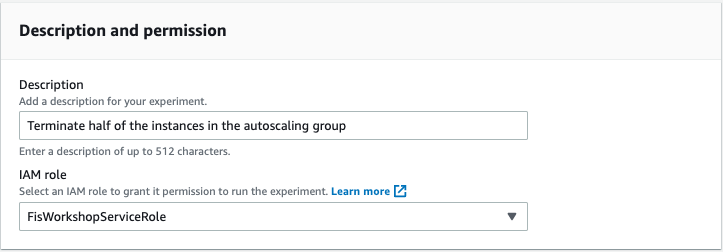
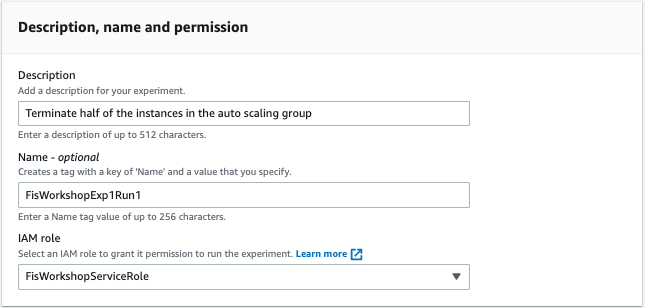
Add logging to basic examples and update UI images

Changed region(s): [[0.0, 0.2222, 0.7442, 0.9444], [0.0, 0.0, 1.0, 1.0], [0.0, 0.0556, 0.4031, 0.1667]]

diff --git a/resources/templates/asg-cdk/lib/asg-cdk-test-stack.ts b/resources/templates/asg-cdk/lib/asg-cdk-test-stack.ts
@@ -21,6 +21,7 @@ export class AsgCdkTestStack extends cdk.Stack {
 
     // Set some constants for convenience
 
+    const fisLogGroup = '/fis-workshop/fis-logs';
     const nginxAccessLogGroup = '/fis-workshop/asg-access-log';
     const nginxErrorLogGroup = '/fis-workshop/asg-error-log';
     
@@ -272,6 +273,13 @@ export class AsgCdkTestStack extends cdk.Stack {
     const lbUrl = new cdk.CfnOutput(this, 'FisAsgUrl', {value: 'http://' + lb.loadBalancerDnsName});
 
     // Set up logs, metrics, and dashboards
+
+    const logGroupFisLogs = new log.LogGroup(this, 'FisLogGroupFisLogs', {
+      logGroupName: fisLogGroup,
+      retention: log.RetentionDays.ONE_WEEK,
+    });
+
+    const outputFisLog = new cdk.CfnOutput(this, 'FisLogsArn', {value: logGroupFisLogs.logGroupArn});
 
     const logGroupNginxAccess = new log.LogGroup(this, 'FisLogGroupNginxAccess', {
       logGroupName: nginxAccessLogGroup,

diff --git a/workshop/content/030_basic_content/030_basic_experiment/20-experiment-console/_index.en.md b/workshop/content/030_basic_content/030_basic_experiment/20-experiment-console/_index.en.md
@@ -28,9 +28,9 @@ Navigate to the [**FIS console**](https://console.aws.amazon.com/fis/home?#Home)
 **_Note:_** if you've used AWS FIS before you may not see the splash screen. In that case select "Experiment templates" in the burger menu on the left and access **"Create experiment template"** from there.
 {{% /notice %}}
 
-#### Template description and permissions
+#### Template description, name, and permissions
 
-Let's write a description for our experiment template and select an IAM role to use when performing the experiment. Go to the "Description and permission" section. For "Description" enter `Terminate half of the instances in the auto scaling group` and for "IAM Role" select the `FisWorkshopServiceRole` role you created previously.
+Let's write a description for our experiment template and select an IAM role to use when performing the experiment. Go to the "Description, name and permission" section. For "Description" enter `Terminate half of the instances in the auto scaling group`, for "Name" enter `FisWorkshopExp1Run1` and for "IAM Role" select the `FisWorkshopServiceRole` role you created previously.
 
 {{< img "create-template-2-description.en.png" "Set FIS description and role" >}}
 
@@ -72,11 +72,22 @@ AWS FIS provides stop conditions tied to [**Amazon CloudWatch alarms**](https://
 {{< img "create-template-4-stop-conditions-empty.en.png" "Skip Stop Condition section" >}} 
 
 
-#### Template name and tags
+#### Logs
 
-Finally we can attach tags to our template. Tags can be used in IAM policy [**condition keys**](https://docs.aws.amazon.com/service-authorization/latest/reference/list_awsfaultinjectionsimulator.html#awsfaultinjectionsimulator-fis_Service) to control access to the experiment template. AWS FIS also recognizes the special tag `Name` which is displayed in the "Name" field of the experiment template list view. 
+To write logs of FIS events to CloudWatch, expand the "Logs" card, check the "Send to CloudWatchLogs" checkbox, and select "Browse" to select the pre-created log group:
 
-For this experiment we will give our template a short name to be used on the list page. To do this scroll to the "Tags" section at the bottom, select **"Add new tag"**, then enter `Name` in the "Key" field and `FisWorkshopExp1` for "Value"
+{{< img "create-template-5-logs-1.en.png" "Enable CloudWatch logging for FIS" >}} 
+
+For "Log groups" enter `/fis-workshop/fis-logs` and select the relevant entry: 
+
+{{< img "create-template-5-logs-2.en.png" "Browse for log group" >}} 
+
+
+#### Template tags
+
+AWS FIS tracks the temmplate name as the special tag `Name` which is displayed in the "Name" field of the experiment template list view. In addition to the Name tag that propagated from setting it in the "Description, name and permission" card, we can optionally attach tags to our template. Tags can be used in IAM policy [**condition keys**](https://docs.aws.amazon.com/service-authorization/latest/reference/list_awsfaultinjectionsimulator.html#awsfaultinjectionsimulator-fis_Service) to control access to the experiment template. 
+
+For this experiment we will make no changes here.
 
 {{< img "create-template-2-name.en.png" "Set FIS template name" >}}
 
@@ -149,13 +160,29 @@ Look at the "State" entry. If this still shows pending, feel free to select the 
 
 {{< img "run-experiment-1-fail.en.png" "Start experiment confirmation" >}}
 
-Click on the failed result to get more information about why it failed. The message should say `Target resolution returned empty set`. To see why this would happen, have a look at the auto scaling group from which we tried to select instances. Navigate to the [**EC2 console**](https://console.aws.amazon.com/ec2autoscaling/home?#/details), select **"Auto Scaling Groups"** on the bottom of the burger menu, and search for `FisStackAsg-`:
+Click on the failed result to get more information about why it failed. The message should say `Target resolution returned empty set`. Scroll down further and select "Timeline":
+
+{{< img "run-experiment-1-fail-2.en.png" "Start experiment confirmation" >}}
+
+In this case this doesn't show anything because the experiment failed to run entirely, but for larger experiments you would see when each action was active in the timeline.
+
+Next navigate to the [**CloudWatch Logs console**](https://console.aws.amazon.com/cloudwatch/home?#logsV2:log-groups/log-group/$252Ffis-workshop$252Ffis-logs) and select the `/fis-workshop/fis-logs` log group
+
+{{< img "run-experiment-1-fail-3.en.png" "Start experiment confirmation" >}}
+
+then expand the topmost stream under "Log streams"
+
+{{< img "run-experiment-1-fail-4.en.png" "Start experiment confirmation" >}}
+
+All this shows that FIS failed to identify virtual machines that satisfied the condition of being "50% of instances with "Name" tag of `FisStackAsg/ASG`.
+
+To see why this would happen, have a look at the auto scaling group from which we tried to select instances. Navigate to the [**EC2 console**](https://console.aws.amazon.com/ec2autoscaling/home?#/details), select **"Auto Scaling Groups"** on the bottom of the burger menu, and search for `FisStackAsg-`:
 
 {{< img "review-1-asg-1.en.png" "Review ASG" >}}
 
 ## Learning and improving
 
-It looks like our ASG was configured to scale down to just one instance while idle. Since we can't shut down half of one instance our 50% selector came up empty and the experiment failed.
+It looks like our ASG was configured to scale down to just one instance while idle. Since we can't shut down half of one instance, our 50% selector came up empty and the experiment failed.
 
 **Great! While this wasn't really what we expected, we just found a flaw in our configuration that would severely affect our system's resilience! Let's fix it and try again!**
 

diff --git a/workshop/content/030_basic_content/030_basic_experiment/30-experiment-cli/_index.en.md b/workshop/content/030_basic_content/030_basic_experiment/30-experiment-cli/_index.en.md
@@ -18,6 +18,7 @@ In this section we will show you how to create an experiment using AWS FIS templ
         "targets": {},
         "roleArn": "arn:aws:iam:...",
         "stopConditions": [],
+        "logConfiguration": {},
         "tags": {}
     }
 }
@@ -137,12 +138,25 @@ E.g.: to select an instance that is `running` in `us-east-2a` we would add the f
 ]
 ```
 
+### Logging configuration
+
+[**Experiment logging**](https://docs.aws.amazon.com/fis/latest/userguide/monitoring-logging.html) can be enabled in the `logConfiguration` section of the template. For logging to CloudWatch similar to the previous section would look like this (with the region and account number filled in appropriately):
+
+```json
+"logConfiguration": {
+    "cloudWatchLogsConfiguration": {
+        "logGroupArn": "arn:aws:logs:YOUR_REGION_HERE:YOUR_ACCOUNT_NUMBER_HERE:log-group:/fis-workshop/fis-logs:*"
+    },
+    "logSchemaVersion": 1
+},
+```
+
 ### Finished template
 
 Using the above, this would be the finished template. 
 
 {{% notice note %}}
-Before using this template, please ensure that you replace the ARN for the FIS execution role on the last line with the ARN of the role you you created in the [**Configuring permissions**]({{< ref "030_basic_content/030_basic_experiment/10-permissions">}}) section.
+Before using this template, please ensure that you replace the ARN for the FIS execution role on the last line with the ARN of the role you  created in the [**Configuring permissions**]({{< ref "030_basic_content/030_basic_experiment/10-permissions">}}) section and appropriately set the region and account number for the log group ARN.
 {{% /notice %}}
 
 ```json
@@ -181,7 +195,13 @@ Before using this template, please ensure that you replace the ARN for the FIS e
             "source": "none"
         }
     ],
-    "roleArn": "arn:aws:iam::YOUR_ACCOUNT_NUMBER_HERE:role/FisWorkshopServiceRole"
+    "roleArn": "arn:aws:iam::YOUR_ACCOUNT_NUMBER_HERE:role/FisWorkshopServiceRole",
+    "logConfiguration": {
+        "cloudWatchLogsConfiguration": {
+            "logGroupArn": "arn:aws:logs:YOUR_REGION_HERE:YOUR_ACCOUNT_NUMBER_HERE:log-group:/fis-workshop/fis-logs:*"
+        },
+        "logSchemaVersion": 1
+    },
 }
 ```
 

diff --git a/workshop/content/030_basic_content/030_basic_experiment/10-permissions/_index.md b/workshop/content/030_basic_content/030_basic_experiment/10-permissions/_index.md
@@ -16,12 +16,34 @@ Navigate to the [**IAM console**](https://console.aws.amazon.com/iam/home?#/poli
 
 {{< img "create-policy-1.en.png" "Create AWS FIS service policy" >}}
 
-and paste the following policy. Take the time to look at how broad these permissions are:
+and paste the following policy. This policy is designed to allow you to freely test during the workshop but take the time to look at how broad these permissions are. We suggest limiting this policy using resource names and conditions before using FIS in production:
 
 ```json
 {
     "Version": "2012-10-17",
     "Statement": [
+        {
+            "Sid": "AllowFISExperimentLoggingActionsCloudwatch",
+            "Effect": "Allow",
+            "Action": [
+                "logs:CreateLogDelivery",
+                "logs:PutResourcePolicy",
+                "logs:DescribeResourcePolicies",
+                "logs:DescribeLogGroups"
+            ],
+            "Resource": "*"
+        },
+        {
+            "Sid": "AllowFISExperimentLoggingActionsCloudwatch",
+            "Effect": "Allow",
+            "Action": [
+                "logs:CreateLogDelivery",
+                "logs:PutResourcePolicy",
+                "logs:DescribeResourcePolicies",
+                "logs:DescribeLogGroups"
+            ],
+            "Resource": "*"
+        },
         {
             "Sid": "AllowFISExperimentRoleReadOnly",
             "Effect": "Allow",

diff --git a/workshop/content/030_basic_content/030_basic_experiment/40-experiment-cfn/_index.en.md b/workshop/content/030_basic_content/030_basic_experiment/40-experiment-cfn/_index.en.md
@@ -98,6 +98,12 @@ We can wrap this into the `Resources` section of a [**CloudFormation template**]
                 ],
                 "RoleArn": {
                     "Fn::Sub": "arn:aws:iam::${AWS::AccountId}:role/FisWorkshopServiceRole"
+                },
+                "LogConfiguration": {
+                    "CloudWatchLogsConfiguration": {
+                        "LogGroupArn": { "Fn::Sub": "arn:aws:logs:${AWS::Region}:${AWS::AccountId}:log-group:/fis-workshop/fis-logs:*" }
+                    },
+                    "logSchemaVersion": 1
                 }
             }
         }
